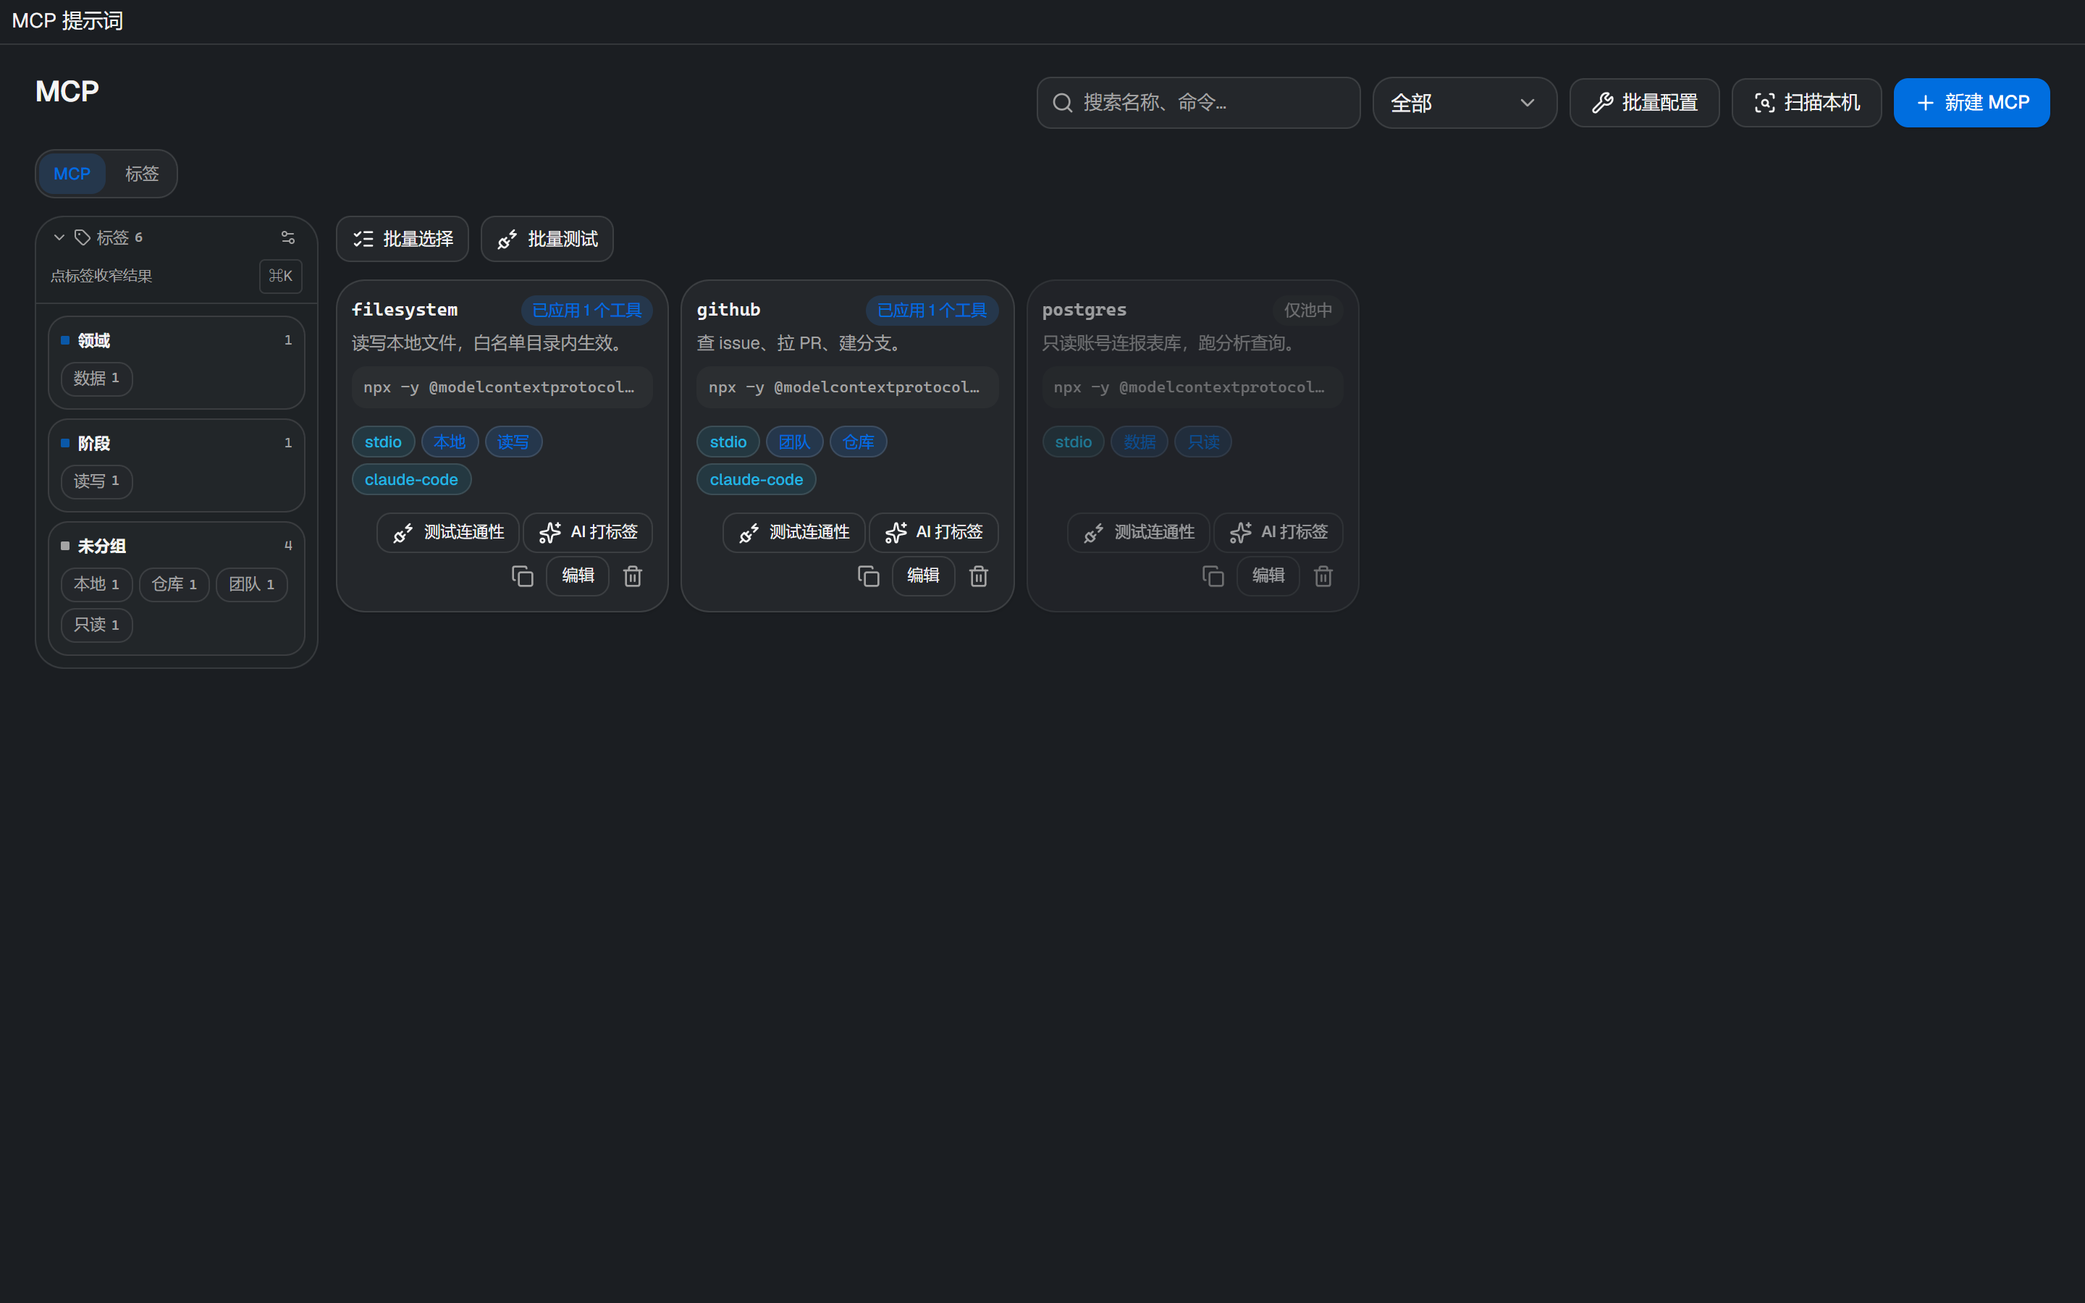
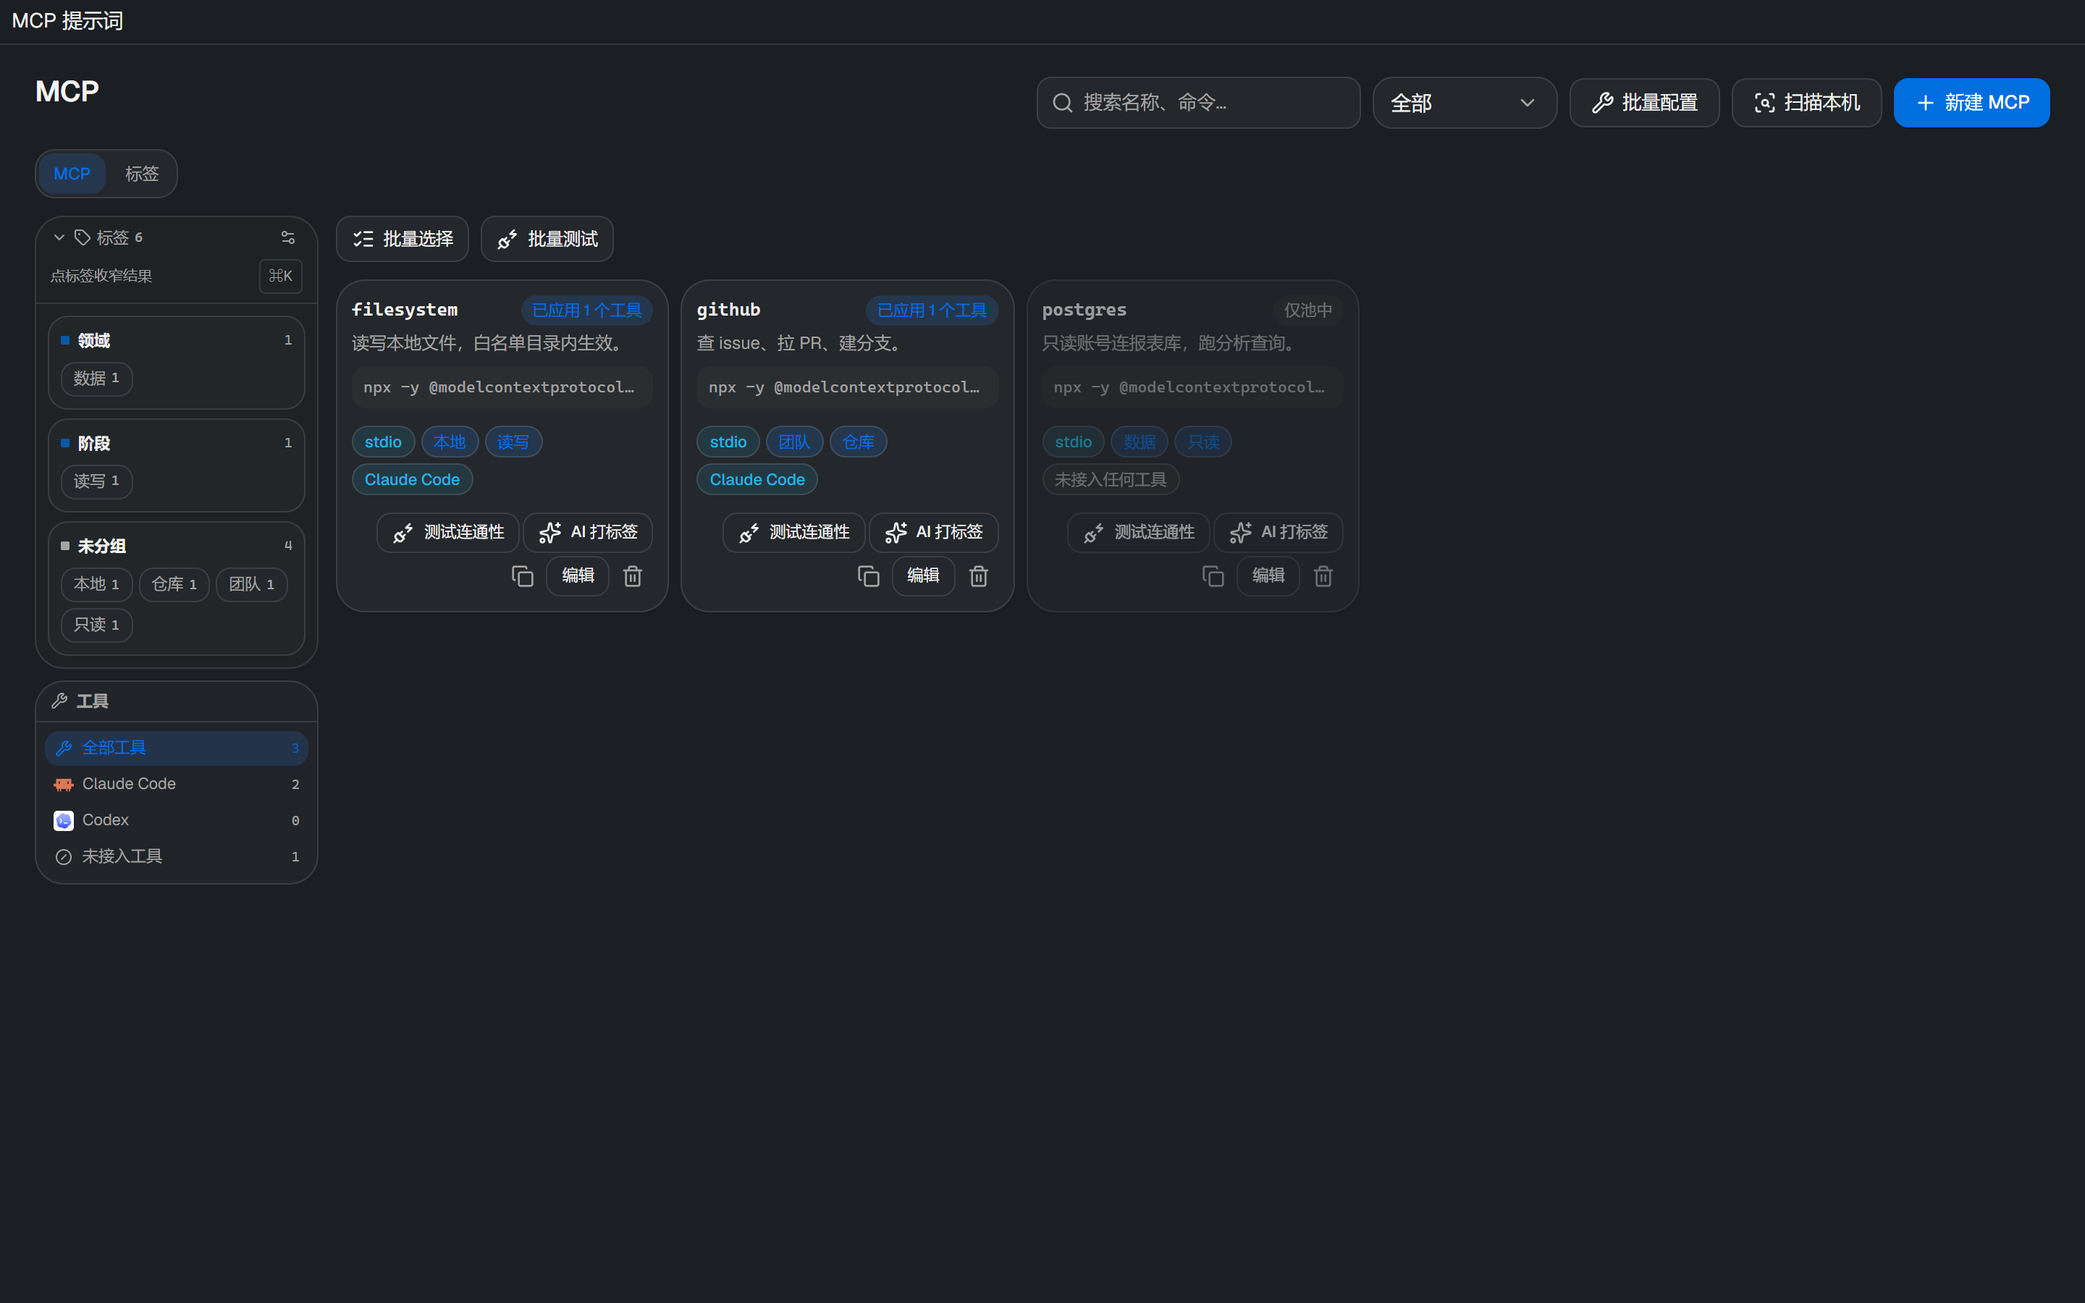
MCP 页接上同一套工具维度：徽标、按工具收窄、批量接入/移出
技能页的 Harness 维度做完后，MCP 这边还只有导入时留下的 targets 徽标：
看不到「未接入任何工具」，不能按工具收窄，也没有跨工具的批量写入/解绑。

- HarnessBatchDialog 泛化成技能与 MCP 共用：条目只带 key 和已接入的工具 id，
  真正调 apply_to_harness / remove_from_harness 的差异交给调用方；
- MCP 页左栏加「工具」区块（全部 / 各工具 / 未接入工具），卡片补
  「未接入任何工具」徽标；
- 批量工具条加「接入工具」，写入成功后同步 save_mcp 的 targets 元数据，
  卡片徽标、工具筛选与中枢记录保持一致；
- MCP 页打开时就扫一次 harness，不再等用户点「扫描本机」才有工具数据。

截图：mcp-rail.png、mcp-harness-batch.png。

diff --git a/src/ahub/pages/McpPage.tsx b/src/ahub/pages/McpPage.tsx
@@ -1,4 +1,4 @@
-import { Braces, Check, ClipboardPaste, Copy, FolderOpen, ListChecks, Plus, PlugZap, ScanSearch, Server, Sparkles, Trash2, Wrench } from "lucide-react";
+import { Braces, Boxes, Check, ClipboardPaste, Copy, FolderOpen, ListChecks, Plus, PlugZap, ScanSearch, Server, Sparkles, Trash2, Wrench } from "lucide-react";
 import { useEffect, useMemo, useState } from "react";
 import { useTranslation } from "react-i18next";
 import { toast } from "sonner";
@@ -9,6 +9,8 @@ import { TagManagerView } from "@/ahub/components/TagManagerView";
 import { TagCommand } from "@/ahub/components/TagCommand";
 import { SearchBar } from "@/ahub/components/SearchBar";
 import { HarnessConfigDialog } from "@/ahub/components/HarnessConfigDialog";
+import { HarnessFilterRail } from "@/ahub/components/HarnessFilterRail";
+import { HarnessBatchDialog } from "@/ahub/components/HarnessBatchDialog";
 import { KeyValueEditor, recordFromRows, rowsFromRecord, type KvRow } from "@/ahub/components/KeyValueEditor";
 import { EmptyState } from "@/ahub/components/EmptyState";
 import { HarnessDialog } from "@/ahub/components/HarnessDialog";
@@ -79,6 +81,8 @@ export function McpPage() {
   const [batchMode, setBatchMode] = useState(false);
   const [batchSel, setBatchSel] = useState<Set<string>>(new Set());
   const [reports, setReports] = useState<HarnessReport[] | null>(null);
+  const [harnessFilter, setHarnessFilter] = useState<string | null>(null);
+  const [harnessBatchOpen, setHarnessBatchOpen] = useState(false);
   const [scanning, setScanning] = useState(false);
   const [cfgOpen, setCfgOpen] = useState(false);
   const [batchDeleteOpen, setBatchDeleteOpen] = useState(false);
@@ -124,11 +128,23 @@ export function McpPage() {
     return [...keys].sort((a, b) => (tagCounts[b] ?? 0) - (tagCounts[a] ?? 0) || a.localeCompare(b));
   }, [tagCounts, activeTags]);
 
+  const harnessCounts = useMemo(() => {
+    const counts: Record<string, number> = {};
+    for (const s of mcp) for (const hid of s.targets ?? []) counts[hid] = (counts[hid] ?? 0) + 1;
+    return counts;
+  }, [mcp]);
+
+  const unassignedCount = useMemo(() => mcp.filter((s) => (s.targets ?? []).length === 0).length, [mcp]);
+
   const filtered = useMemo(() => {
     const q = query.trim().toLowerCase();
     const list = mcp.filter((s) => {
       if (transportFilter !== "all" && s.transport !== transportFilter) return false;
       if (!matchTags(s.tags, activeTags, tagMode)) return false;
+      if (harnessFilter) {
+        const targets = s.targets ?? [];
+        if (harnessFilter === "__none" ? targets.length > 0 : !targets.includes(harnessFilter)) return false;
+      }
       if (!q) return true;
       return (
         s.name.toLowerCase().includes(q) ||
@@ -144,7 +160,7 @@ export function McpPage() {
       return i === -1 ? Number.MAX_SAFE_INTEGER : i;
     };
     return list.map((x, i) => ({ x, i })).sort((a, b) => rank(a.x) - rank(b.x) || a.i - b.i).map(({ x }) => x);
-  }, [mcp, query, transportFilter, harnessOrder, activeTags, tagMode]);
+  }, [mcp, query, transportFilter, harnessOrder, activeTags, tagMode, harnessFilter]);
 
   const openNew = () => {
     setNewMode("manual");
@@ -288,6 +304,18 @@ export function McpPage() {
   }
 
 
+
+  const loadReports = () =>
+    api
+      .scanHarnesses()
+      .then(setReports)
+      .catch(() => setReports([]));
+
+  // 工具维度在页面打开时就要有数据：不能等用户点「扫描本机」
+  useEffect(() => {
+    void loadReports();
+    // eslint-disable-next-line react-hooks/exhaustive-deps
+  }, []);
 
   const doScan = () => {
     setScanning(true);
@@ -506,6 +534,16 @@ export function McpPage() {
                         onManage={() => setPageTab("tags")}
                         onCommand={() => setTagCommandOpen(true)}
                       />
+                      {mcp.length > 0 ? (
+                        <HarnessFilterRail
+                          reports={reports}
+                          counts={harnessCounts}
+                          total={mcp.length}
+                          unassigned={unassignedCount}
+                          value={harnessFilter}
+                          onChange={setHarnessFilter}
+                        />
+                      ) : null}
             </aside>
             <div className="min-w-0 flex-1">
 
@@ -566,6 +604,16 @@ export function McpPage() {
                   }
                 >
                   {filtered.length > 0 && batchSel.size === filtered.length ? t("mcp.unselectAll") : t("harness.selectAll")}
+                </Button>
+                <Button
+                  size="sm"
+                  variant="secondary"
+                  className="h-8"
+                  disabled={batchSel.size === 0}
+                  onClick={() => setHarnessBatchOpen(true)}
+                >
+                  <Boxes className="size-3.5" />
+                  {t("mcp.harnessApplyBtn")}
                 </Button>
                 <Button
                   size="sm"
@@ -676,6 +724,7 @@ export function McpPage() {
                     {harnessName(hid)}
                   </Badge>
                 ))}
+                {(s.targets ?? []).length === 0 ? <Badge variant="muted">{t("mcp.harnessNone")}</Badge> : null}
               </div>
               <div className="mt-auto flex flex-wrap items-center justify-end gap-0.5 pt-3">
                 <Button
@@ -956,6 +1005,34 @@ export function McpPage() {
         onRescan={doScan}
         pool={mcp}
         onChanged={() => void loadMcp()}
+      />
+
+      <HarnessBatchDialog
+        open={harnessBatchOpen}
+        onOpenChange={setHarnessBatchOpen}
+        kind="mcp"
+        items={mcp.filter((s) => batchSel.has(s.id)).map((s) => ({ key: s.name, applied: s.targets ?? [] }))}
+        reports={reports ?? []}
+        run={async (hid, mode, keys) => {
+          const res =
+            mode === "apply"
+              ? await api.applyToHarness(hid, "mcp", keys)
+              : await api.removeFromHarness(hid, "mcp", keys);
+          // targets 是中枢侧的应用记录：写入成功后跟着更新，卡片徽标和工具筛选才不会撒谎
+          for (const name of res.applied) {
+            const cur = useData.getState().mcp.find((x) => x.name === name);
+            if (!cur) continue;
+            const set = new Set(cur.targets ?? []);
+            if (mode === "apply") set.add(hid);
+            else set.delete(hid);
+            await saveMcp({ ...cur, targets: [...set] });
+          }
+          return res;
+        }}
+        onDone={async () => {
+          await loadMcp();
+          await loadReports();
+        }}
       />
 
       <HarnessDialog open={scanOpen} onOpenChange={setScanOpen} kind="mcp" />

diff --git a/src/ahub/components/HarnessBatchDialog.tsx b/src/ahub/components/HarnessBatchDialog.tsx
@@ -4,35 +4,43 @@ import { useTranslation } from "react-i18next";
 import { HarnessIcon } from "@/ahub/components/HarnessIcon";
 import { Button } from "@/ahub/components/ui/button";
 import { Dialog, DialogBody, DialogContent, DialogDescription, DialogFooter, DialogHeader, DialogTitle } from "@/ahub/components/ui/dialog";
-import { api } from "@/ahub/lib/api";
-import { isSkillApplied, type SkillRef } from "@/ahub/lib/skillHarness";
-import type { HarnessReport } from "@/ahub/lib/types";
+import type { ApplyResult, HarnessReport } from "@/ahub/lib/types";
 import { cn } from "@/ahub/lib/utils";
 
 type Mode = "apply" | "remove";
 
 type ToolResult = { id: string; name: string; ok: number; failed: number; skipped: number; errors: string[] };
 
+/** 一条待处理的条目：key 是调后端命令时用的名字（技能=dirName，MCP=name） */
+export type HarnessBatchItem = {
+  key: string;
+  /** 已接入的 harness id 列表 */
+  applied: string[];
+};
+
 /**
- * 批量接入 / 移出工具。
+ * 批量接入 / 移出工具（技能与 MCP 共用）。
  *
- * 选中的技能在页面上已经确定，这里只让用户挑工具 —— 每行直接写出
- * 「将新增 n 项 / 将移除 n 项」，跑完按工具报成功、失败、跳过。
- * 一次只做一种方向（接入或移出），避免同一个按钮里藏两种相反操作。
+ * 页面上已经勾好条目，这里只让用户挑工具 —— 每行直接写出「将新增 / 将移除 n 项」，
+ * 跑完按工具报成功、失败、跳过。一次只做一种方向，避免同一个按钮里藏两种相反操作。
  */
 export function HarnessBatchDialog({
   open,
   onOpenChange,
-  targets,
+  kind,
+  items,
   reports,
+  run,
   onDone,
 }: {
   open: boolean;
   onOpenChange: (open: boolean) => void;
-  /** 页面上勾选的技能 */
-  targets: SkillRef[];
+  kind: "skills" | "mcp";
+  items: HarnessBatchItem[];
   reports: HarnessReport[];
-  /** 跑完刷新扫描结果 */
+  /** 调后端命令；技能只复制目录，MCP 还要同步 targets 元数据，所以交给调用方 */
+  run: (harnessId: string, mode: Mode, keys: string[]) => Promise<ApplyResult>;
+  /** 跑完刷新扫描结果 / 列表 */
   onDone: () => void | Promise<void>;
 }) {
   const { t } = useTranslation();
@@ -41,16 +49,19 @@ export function HarnessBatchDialog({
   const [running, setRunning] = useState(false);
   const [results, setResults] = useState<ToolResult[] | null>(null);
 
-  const tools = useMemo(() => reports.filter((r) => r.supportsSkills), [reports]);
+  const tools = useMemo(
+    () => reports.filter((r) => (kind === "skills" ? r.supportsSkills : r.supportsMcp)),
+    [reports, kind],
+  );
 
-  /** 每个工具下「已接入 / 未接入」的名单，由当前选中技能算出 */
+  /** 每个工具下「已接入 / 未接入」的名单 */
   const plan = useMemo(() => {
     return tools.map((r) => {
-      const have = targets.filter((s) => isSkillApplied(r, s));
-      const missing = targets.filter((s) => !isSkillApplied(r, s));
+      const have = items.filter((it) => it.applied.includes(r.id));
+      const missing = items.filter((it) => !it.applied.includes(r.id));
       return { report: r, have, missing };
     });
-  }, [tools, targets]);
+  }, [tools, items]);
 
   const actionable = (p: (typeof plan)[number]) => (mode === "apply" ? p.missing.length : p.have.length);
 
@@ -74,18 +85,15 @@ export function HarnessBatchDialog({
 
   const totalItems = plan.filter((p) => picked.has(p.report.id)).reduce((n, p) => n + actionable(p), 0);
 
-  const run = async () => {
+  const runAll = async () => {
     const chosen = plan.filter((p) => picked.has(p.report.id) && actionable(p) > 0);
     if (!chosen.length) return;
     setRunning(true);
     const out: ToolResult[] = [];
     for (const p of chosen) {
-      const names = (mode === "apply" ? p.missing : p.have).map((s) => s.dirName);
+      const keys = (mode === "apply" ? p.missing : p.have).map((it) => it.key);
       try {
-        const res =
-          mode === "apply"
-            ? await api.applyToHarness(p.report.id, "skills", names)
-            : await api.removeFromHarness(p.report.id, "skills", names);
+        const res = await run(p.report.id, mode, keys);
         out.push({
           id: p.report.id,
           name: p.report.name,
@@ -95,7 +103,7 @@ export function HarnessBatchDialog({
           errors: res.errors,
         });
       } catch (e) {
-        out.push({ id: p.report.id, name: p.report.name, ok: 0, failed: names.length, skipped: 0, errors: [String(e)] });
+        out.push({ id: p.report.id, name: p.report.name, ok: 0, failed: keys.length, skipped: 0, errors: [String(e)] });
       }
       setResults([...out]);
     }
@@ -111,8 +119,10 @@ export function HarnessBatchDialog({
     <Dialog open={open} onOpenChange={(v) => !running && onOpenChange(v)}>
       <DialogContent className="sm:max-w-xl">
         <DialogHeader>
-          <DialogTitle>{t("skills.harnessDlgTitle")}</DialogTitle>
-          <DialogDescription>{t("skills.harnessDlgDesc", { n: targets.length })}</DialogDescription>
+          <DialogTitle>{t(kind === "skills" ? "skills.harnessDlgTitle" : "mcp.harnessDlgTitle")}</DialogTitle>
+          <DialogDescription>
+            {t(kind === "skills" ? "skills.harnessDlgDesc" : "mcp.harnessDlgDesc", { n: items.length })}
+          </DialogDescription>
         </DialogHeader>
 
         <DialogBody className="flex flex-col gap-2">
@@ -221,7 +231,7 @@ export function HarnessBatchDialog({
             {done ? t("common.close") : t("common.cancel")}
           </Button>
           {done ? null : (
-            <Button onClick={() => void run()} disabled={running || totalItems === 0}>
+            <Button onClick={() => void runAll()} disabled={running || totalItems === 0}>
               {running ? <Loader2 className="size-3.5 animate-spin" /> : <Plug className="size-3.5" />}
               {mode === "apply"
                 ? t("skills.harnessRunApply", { n: totalItems })

diff --git a/src/ahub/fixtures/mcp-prompts.html b/src/ahub/fixtures/mcp-prompts.html
@@ -14,12 +14,22 @@ const prompts=[
  {id:'p3',title:'需求澄清',description:'把模糊需求问成可执行条目。',content:'{{requirement}}',tags:['产品','审查'],variables:[],versions:[],createdAt:now,updatedAt:now},
 ];
 const settingsInfo={settings:{dataDir:'E:/McpFixture',envRoot:'',language:'zh',theme:'dark',skillSourceDirs:[],harnessOrder:[],aiBaseUrl:'',aiApiKey:'',aiModel:'',autoSummaryOnImport:false,aiProviders:[],aiDefaultProviderId:'',aiLegacyMigrated:true},dataDirs:{root:'E:/McpFixture',prompts:'E:/McpFixture/prompts',mcp:'E:/McpFixture/mcp',skills:'E:/McpFixture/skills'}};
-mockIPC(async(cmd)=>{
+mockIPC(async(cmd,args)=>{
  if(cmd==='list_mcp')return structuredClone(mcp);
  if(cmd==='list_prompts')return structuredClone(prompts);
  if(cmd==='list_skills')return [];
  if(cmd==='get_settings')return structuredClone(settingsInfo);
  if(cmd==='preset_list'||cmd==='list_harnesses')return [];
+ if(cmd==='scan_harnesses')return [
+  {id:'claude-code',name:'Claude Code',supportsMcp:true,supportsSkills:true,configPath:'C:/Users/dz/.claude.json',exists:true,mcpServers:[
+   {name:'filesystem',transport:'stdio',command:'npx',args:[],env:{},url:'',headers:{}},
+   {name:'github',transport:'stdio',command:'npx',args:[],env:{},url:'',headers:{}},
+  ],skillsDirs:[],skills:[],notes:[]},
+  {id:'codex',name:'Codex',supportsMcp:true,supportsSkills:true,configPath:'C:/Users/dz/.codex/config.toml',exists:true,mcpServers:[],skillsDirs:[],skills:[],notes:[]},
+  {id:'gemini-cli',name:'Gemini CLI',supportsMcp:true,supportsSkills:false,configPath:'C:/Users/dz/.gemini/settings.json',exists:true,mcpServers:[],skillsDirs:[],skills:[],notes:[]},
+ ];
+ if(cmd==='apply_to_harness'||cmd==='remove_from_harness')return {applied:args?.names??[],warnings:[],backups:[],errors:[]};
+ if(cmd==='save_mcp')return args?.server ?? null;
  if(cmd==='plugin:event|listen')return 1;
  if(cmd==='get_data_dir')return 'E:/McpFixture';
  return null;

diff --git a/src/ahub/i18n/index.ts b/src/ahub/i18n/index.ts
@@ -240,6 +240,10 @@ const zh = {
     targetsHint: "保存后到卡片右上角执行写入",
     applyCount: "已应用 {{n}} 个工具",
     applyNone: "未应用",
+    harnessDlgTitle: "批量接入 / 移出工具",
+    harnessDlgDesc: "针对选中的 {{n}} 个 MCP 服务执行；每个工具单独统计成功与失败。",
+    harnessApplyBtn: "接入工具",
+    harnessNone: "未接入任何工具",
     scanTip: "正在检测本机工具…",
     noMcpHarness: "未检测到支持 MCP 的工具",
     appliedTo: "已写入 {{name}}",
@@ -1418,6 +1422,10 @@ const en: typeof zh = {
     targetsHint: "After saving, write from the card's apply button",
     applyCount: "{{n}} tools",
     applyNone: "Not applied",
+    harnessDlgTitle: "Add to / remove from tools",
+    harnessDlgDesc: "Applies to the {{n}} selected MCP servers; each tool reports its own success and failure counts.",
+    harnessApplyBtn: "Add to tools",
+    harnessNone: "Not in any tool",
     scanTip: "Detecting tools…",
     noMcpHarness: "No MCP-capable tools detected",
     appliedTo: "Written to {{name}}",

diff --git a/src/ahub/pages/SkillsPage.tsx b/src/ahub/pages/SkillsPage.tsx
@@ -2091,8 +2091,14 @@ export function SkillsPage() {
       <HarnessBatchDialog
         open={harnessBatchOpen}
         onOpenChange={setHarnessBatchOpen}
-        targets={skills.filter((s) => batchSel.has(s.dirName))}
+        kind="skills"
+        items={skills
+          .filter((s) => batchSel.has(s.dirName))
+          .map((s) => ({ key: s.dirName, applied: (appliedMap.get(s.dirName) ?? []).map((r) => r.id) }))}
         reports={skillHarnesses}
+        run={(hid, mode, keys) =>
+          mode === "apply" ? api.applyToHarness(hid, "skills", keys) : api.removeFromHarness(hid, "skills", keys)
+        }
         onDone={loadHarnesses}
       />
 
